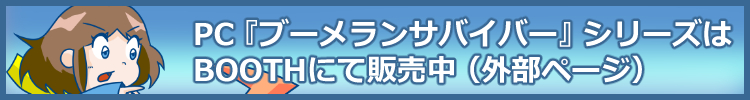
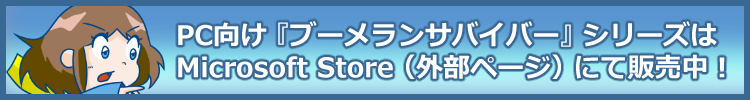
update

diff --git a/pcInformation/index.html b/pcInformation/index.html
@@ -22,7 +22,7 @@
 
         <img src = "image/information.jpg">
         
-          <div id = "button" onclick= "window.location.href = 'https://ramune-spark.booth.pm/'"><img></div>
+          <div id = "button" onclick= "window.location.href = 'https://apps.microsoft.com/search/publisher?name=RAMUNE+SPARK'"><img></div>
           <div id = "buttonContact" onclick= "window.location.href = 'https://github.com/RamuneSpark/boomerangSurvivor_mobile/blob/main/README.md'"><img></div>
         
         </div>
@@ -30,7 +30,7 @@
 
         
         
-
+        
         
    
 <!-- JavaScript -->
